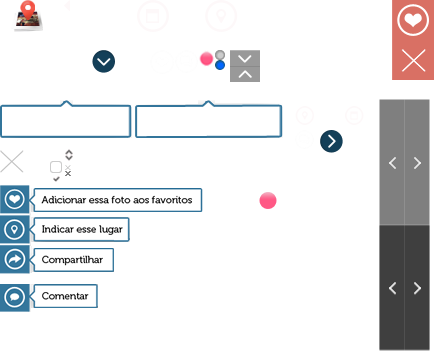
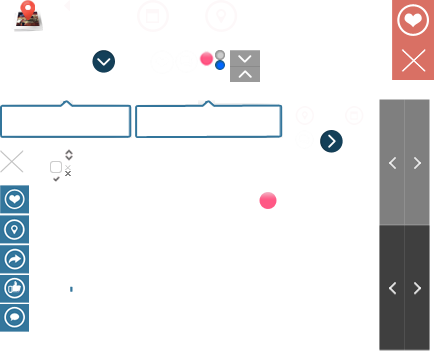
Galeria - Slide
Curtir, mensagem e compartilhar

Changed region(s): [[0.0, 0.5253, 0.4738, 0.9579]]

diff --git a/web/bundles/site/css/style.css b/web/bundles/site/css/style.css
@@ -201,12 +201,19 @@ span.ros { background:#FF5885; }
 .shadown .gallery-box .box .slide-eve-prev:hover { background-position:-380px -225px; }
 .shadown .gallery-box .box .slide-eve-next { background-position:-405px -100px; right:-30px; }
 .shadown .gallery-box .box .slide-eve-next:hover { background-position:-405px -225px; }
-.shadown .gallery-box .box .content .slide-close { width:24px; height:23px; background:url('../images/icons.png') 0px -150px no-repeat; position:fixed; display:block; top:10px; right:-35px; cursor:pointer; }
-.shadown .gallery-box .box .content .slide-close:hover { background-position:-24px -150px; }
-.shadown .gallery-box .box .content .slide-icos { width:29px; height:29px; background:url('../images/icons.png') no-repeat; position:fixed; right:-35px; z-index:10; cursor:pointer; }
-.shadown .gallery-box .slide-fav { top:40px; background-position:-0px -185px; }
-.shadown .gallery-box .slide-lug { top:70px; background-position:-0px -215px; }
-.shadown .gallery-box .slide-com { top:100px; background-position:-0px -245px; }
+.shadown .gallery-box .box .slide-close { width:24px; height:23px; background:url('../images/icons.png') 0px -150px no-repeat; position:absolute; display:block; top:0; right:-30px; cursor:pointer; }
+.shadown .gallery-box .box .slide-close:hover { background-position:-24px -150px; }
+.shadown .gallery-box .box .slide-icos { position:absolute; top:40px; left:625px; cursor:pointer; }
+.shadown .gallery-box .box .slide-icos .line { clear:both; width:250px; height:29px; line-height:29px; margin-bottom:3px; display:block; }
+.shadown .gallery-box .box .slide-icos .icos { width:29px; height:29px; display:block; float:left; background:url('../images/icons.png') no-repeat; }
+.shadown .gallery-box .box .slide-icos .fav { background-position:-0px -185px; }
+.shadown .gallery-box .box .slide-icos .lug { background-position:-0px -215px; }
+.shadown .gallery-box .box .slide-icos .com { background-position:-0px -245px; }
+.shadown .gallery-box .box .slide-icos .cur { background-position:-0px -275px; }
+.shadown .gallery-box .box .slide-icos .men { background-position:-0px -304px; }
+.shadown .gallery-box .box .slide-icos .line span { padding:0 5px; color:#000; font-size:11px; display:none; float:left; height:29px; line-height:29px; background:url('../images/slide-icos-back.png') center repeat-x; }
+.shadown .gallery-box .box .slide-icos .line span.p1 { width:7px; padding:0; background:url('../images/slide-icos-esqdir.png') center left no-repeat; }
+.shadown .gallery-box .box .slide-icos .line span.p2 { width:7px; padding:0; background:url('../images/slide-icos-esqdir.png') center right no-repeat; }
 
 .shadown .box-criar-evento { width:310px; height:320px; background:#FFF; position:absolute; top:50%; left:50%; margin:-160px auto auto -155px; }
 .shadown .box-criar-evento .space { margin:10px; }
@@ -247,8 +254,8 @@ select { color:#999; font-family:'Museo500-Regular'; font-size:12px; font-weight
 .comment-ico span { width:23px; height:50px; display:block; margin: 14px 0 0 14px; background:url('../images/icons.png') -175px -50px no-repeat; }
 .comment-ico:hover { background-color:#296689; }
 
-ul .date { width:140px; height:50px; background:#CCC; float:left; position:absolute; top:75px; z-index:99990; color:#31749B; }
-ul .date .day { font-family: 'Museo300-Regular'; font-size:30px; font-weight:normal; position:absolute; top:0px; right:10px; }
+ul .date { width:240px; height:140px; background:#31749B; border-left:10px solid #FFF; position:absolute; z-index:2; top:0; color:#FFF; }
+ul .date .day { font-family: 'Museo300-Regular'; font-size:80px; font-weight:normal; position:absolute; top:0px; right:10px; }
 ul .date .time { font-family: 'Museo500-Regular'; font-size:12px; position:absolute; bottom:10px; left:10px; }
 
 ul.pho-menu {  }
@@ -393,8 +400,14 @@ a.toggle em { float:right; margin-right:25px; color:#666; font-weight:normal; }
 .marTop25 { margin-top:25px; }
 .borRad02 { -webkit-border-radius: 2px; -moz-border-radius: 2px; border-radius: 2px; }
 
-@media only screen and (max-width : 670px) {
-    .shadown .gallery-box .box { width:100%; top:0; left:-10px; margin:auto; }
+@media only screen and (max-width : 680px) {
+    .shadown .gallery-box .box { width:100%; top:0; left:0px; margin:auto; padding:0 0 10px 0; }
 	.shadown .gallery-box .box .slide-eve-prev { left:5px; }
 	.shadown .gallery-box .box .slide-eve-next { right:5px; }
+	.shadown .gallery-box .box .slide-close { top:12px; right:10px; cursor:pointer; }
+	.shadown .gallery-box .box .slide-icos { left:auto; right:8px; cursor:pointer; }
+	.shadown .gallery-box .box .slide-icos .icos { float:right; }
+	.shadown .gallery-box .box .slide-icos .line span { float:right; }
+	.shadown .gallery-box .box .slide-icos .line span.p1 { background:url('../images/slide-icos-diresq.png') center right; }
+	.shadown .gallery-box .box .slide-icos .line span.p2 { background:url('../images/slide-icos-diresq.png') center left; }
 }

diff --git a/web/bundles/site/js/functions.js b/web/bundles/site/js/functions.js
@@ -31,14 +31,17 @@ $a(document).ready(function(){
 		}
 		showImages();
 	}
-	
+	function ajustImage(){
+		$a(".photo").each(function(){
+			if(!$a(this).hasClass("date")) $a(this).animate({height : $a(this).find("img").width()},500);
+			//if($a(this).find("img").attr("src") == "/coolspots-web/web/bundles/site/images/photo-placeholder.png") $a(this).remove();
+		});
+	}
 	function showImages(){
 		timer = setTimeout(function(){
 			if(!hasImage){
-				$a(".photo").each(function(){
-					$a(this).height($a(this).find("img").width());
-					//if($a(this).find("img").attr("src") == "/coolspots-web/web/bundles/site/images/photo-placeholder.png") $a(this).remove();
-				});
+				ajustImage();
+				
 				var totUl = $a("ul.content").size();
 				for(i = 0; i < totUl; i++){
 					ul = $a("ul.content").eq(i);
@@ -113,6 +116,10 @@ $a(document).ready(function(){
 			// fetchNextPage();
 		// }
 	// });
+	
+	$a(window).resize(function(){
+		ajustImage();
+	});
 	
 	$a("body").mCustomScrollbar({
 		scrollInertia: 0,
@@ -357,6 +364,15 @@ $a(document).ready(function(){
 	});
 	$a(document).delegate(".slide-close", "click", function(){
 		shadownClose();
+	});
+	$a(document).delegate(".slide-icos .cur", "click", function(){
+		alert("CURTIR IMAGEM DE ID: " + $a(pic[atual]).attr("id"));
+	});
+	$a(document).delegate(".slide-icos .men", "click", function(){
+		alert("ENVIAR MENSAGEM AO USUÁRIO: " + $a(pic[atual]).find(".username").val());
+	});
+	$a(document).delegate(".slide-icos .com", "click", function(){
+		alert("COMPARTIHAR IMAGEM: " + $a(pic[atual]).attr("data"));
 	});
 	$a(document).delegate(shadown, "click", function(){
 		$a(this).fadeOut('slow');
